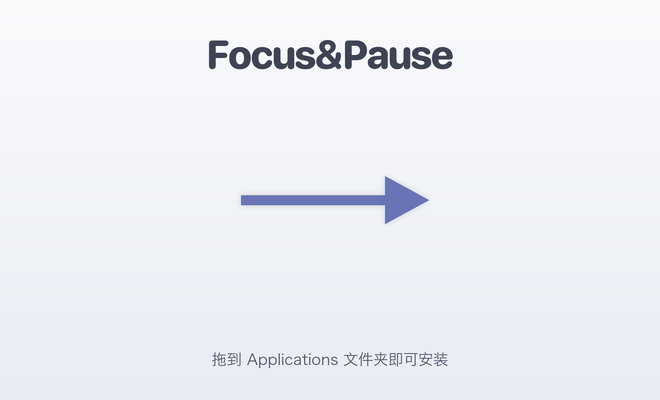
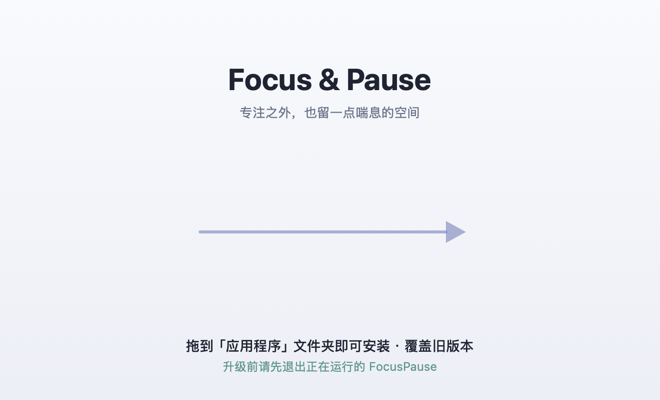
feat: verify update downloads and refresh the installer background
SettingsView had its own copy of the download path, which skipped checksum
verification entirely. Route it through Updater.downloadAndOpen so both
call sites share one implementation.

When the release publishes a matching .sha256 asset, the archive is hashed
with SHA256 and compared before the file is kept; a mismatch deletes the
download and reports the failure instead of opening a corrupt installer.
Releases without a checksum asset keep working unchanged.

After a successful download, tell the user to quit the running app before
dragging over it — replacing an app that is still running fails silently.

Redraw the DMG background to match the app's design tokens, and state both
the overwrite install step and the quit-first requirement on the image.

diff --git a/Sources/FocusPause/Services/Updater.swift b/Sources/FocusPause/Services/Updater.swift
@@ -1,4 +1,5 @@
 import AppKit
+import CryptoKit
 import Foundation
 
 struct GiteeRelease: Decodable {
@@ -77,17 +78,71 @@ enum Updater {
     }
 
     /// Downloads the release asset to the user's Downloads folder and reveals it
-    /// in Finder. Returns an error message on failure, or nil on success.
+    /// in Finder. When a matching `.sha256` asset exists next to the download it is
+    /// fetched too and the archive's digest is verified before the file is kept.
+    /// Returns an error message on failure, or nil on success.
     static func downloadAndOpen(_ url: URL) async -> String? {
         let downloads = FileManager.default.urls(for: .downloadsDirectory, in: .userDomainMask).first!
             .appendingPathComponent(url.lastPathComponent)
         do {
             try await download(url, to: downloads)
+            if let problem = await verifyChecksum(for: downloads) {
+                try? FileManager.default.removeItem(at: downloads)
+                return problem
+            }
             NSWorkspace.shared.open(downloads)
             return nil
         } catch {
             return "下载失败：\(error.localizedDescription)"
         }
+    }
+
+    /// Fetches `<asset>.sha256` from the same release and compares it against the
+    /// downloaded file. Returns nil when the file matches or when no checksum
+    /// asset is published (older releases predate this).
+    private static func verifyChecksum(for file: URL) async -> String? {
+        guard let remote = remoteChecksumURL(for: file) else { return nil }
+        guard let fetched = try? await URLSession.shared.data(from: remote) else { return nil }
+        let (data, response) = fetched
+        guard let http = response as? HTTPURLResponse, http.statusCode == 200,
+              let text = String(data: data, encoding: .utf8)
+        else { return nil }
+        let expected = Self.extractDigest(from: text)
+        guard let expected else { return nil }
+        let actual = sha256Hex(of: file)
+        guard actual.lowercased() == expected.lowercased() else {
+            return "安装包校验失败，可能在下载中损坏，请重试。"
+        }
+        return nil
+    }
+
+    /// Pulls the 64-hex-character digest out of a `sha256sum`-style text body.
+    private static func extractDigest(from text: String) -> String? {
+        for line in text.split(separator: "\n") {
+            let token = line.split(separator: " ").first.map(String.init) ?? ""
+            if token.count == 64 && token.allSatisfy(\.isHexDigit) { return token }
+        }
+        return nil
+    }
+
+    /// Derives the release-hosted `.sha256` URL from a local download path by
+    /// pointing back at the Gitee release download endpoint.
+    private static func remoteChecksumURL(for file: URL) -> URL? {
+        guard let tag = releaseTagFromAssetName(file.lastPathComponent) else { return nil }
+        return URL(string: "\(releasePageURL)/download/\(tag)/\(file.lastPathComponent).sha256")
+    }
+
+    /// `FocusPause-v1.0.7.dmg` -> `v1.0.7`
+    private static func releaseTagFromAssetName(_ name: String) -> String? {
+        let parts = name.split(separator: "-", omittingEmptySubsequences: false)
+        guard let last = parts.last else { return nil }
+        let stem = last.split(separator: ".").first.map(String.init) ?? ""
+        return stem.hasPrefix("v") ? stem : nil
+    }
+
+    private static func sha256Hex(of file: URL) -> String {
+        guard let data = try? Data(contentsOf: file) else { return "" }
+        return SHA256.hash(data: data).map { String(format: "%02x", $0) }.joined()
     }
 
     static func compareVersions(_ a: String, _ b: String) -> ComparisonResult {

diff --git a/Sources/FocusPause/Views/SettingsView.swift b/Sources/FocusPause/Views/SettingsView.swift
@@ -735,14 +735,16 @@ struct SettingsView: View {
     private func downloadAndOpen(_ url: URL) async {
         isDownloading = true
         defer { isDownloading = false }
-        let downloads = FileManager.default.urls(for: .downloadsDirectory, in: .userDomainMask).first!
-            .appendingPathComponent(url.lastPathComponent)
-        do {
-            try await Updater.download(url, to: downloads)
-            NSWorkspace.shared.open(downloads)
-        } catch {
-            updateStatus = .failed("下载失败：\(error.localizedDescription)")
+        if let problem = await Updater.downloadAndOpen(url) {
+            updateStatus = .failed(problem)
+            return
         }
+        // 拖拽覆盖前必须先退出正在运行的旧版，否则 /Applications 里的替换会失败。
+        let alert = NSAlert()
+        alert.messageText = "安装包已下载"
+        alert.informativeText = "请先退出当前运行的 FocusPause，再把 FocusPause 拖入「应用程序」完成覆盖安装。"
+        alert.addButton(withTitle: "好")
+        alert.runModal()
     }
 
     // MARK: - 密码修改 sheet
